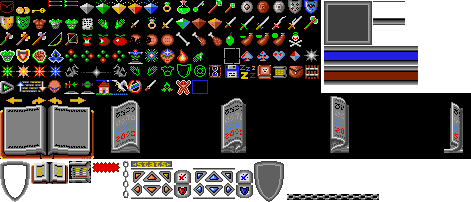
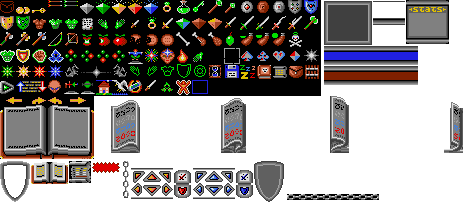
UI Constants

Changed region(s): [[0.1783, 0.4455, 1.0, 0.8317], [0.862, 0.0, 0.9512, 0.2376]]

diff --git a/variables.js b/variables.js
@@ -422,3 +422,135 @@ var SWITCH_FLOOR_NONE = 0,
 	SWITCH_FLOOR_TOGGLE_HOLE = 56, // (X/Y) *
 	SWITCH_FLOOR_GAME_COMPLETION_PAD = 58, // **
 	SWITCH_FLOOR_REMOVE_PILLAR_OTHER_EVENT = 60; // (X/Y) **
+        
+var UI_POCKET_EMPTY = 0,
+        UI_POCKET_COIN = 1,
+        UI_POCKET_COMMON_KEY = 2,
+        UI_POCKET_ARROW = 3,
+        UI_POCKET_ELF_ARROW = 4,
+        UI_POCKET_GEM_GREY = 5,
+        UI_POCKET_GEM_SERPENT = 6,
+        UI_POCKET_GEM_CHAOS = 7,
+        UI_POCKET_GEM_DRAGON =8,
+        UI_POCKET_GEM_MOON = 9,
+        UI_POCKET_RING = 10,
+        UI_POCKET_POTION = 11,
+        UI_POCKET_KEY = 12,
+        UI_POCKET_STAFF = 13,
+        UI_POCKET_WAND = 14,
+        UI_POCKET_SHIELD_1 = 15,
+        UI_POCKET_SHIELD_2 = 16,
+        UI_POCKET_SHIELD_3 = 17,
+        UI_POCKET_SHIELD_4 = 18,
+        UI_POCKET_SHIELD_5 = 19,
+        UI_POCKET_SHIELD_6 = 20,
+        UI_POCKET_SHIELD_7 = 21,
+        UI_POCKET_AMOUR_LEATHER = 22,
+        UI_POCKET_AMOUR_CHAIN = 23,
+        UI_POCKET_AMOUR_PLATE = 24,
+        UI_POCKET_PERMIT = 25,
+        UI_POCKET_HAND_LEFT_AMOUR = 26,
+        UI_POCKET_HAND_RIGHT_AMOUR = 27,
+        UI_POCKET_DAGGER = 28,
+        UI_POCKET_RING_SHINNY = 29,
+        UI_POCKET_SHORT_SWORD = 30,
+        UI_POCKET_GEM_GREENISH = 31,
+        UI_POCKET_GEM_BROWN = 32,
+        UI_POCKET_GEM_TAN = 33,
+        UI_POCKET_SWORD_1 = 34,
+        UI_POCKET_SWORD_2 = 35,
+        UI_POCKET_SWORD_3 = 36,
+        UI_POCKET_SWORD_4 = 37,
+        UI_POCKET_SWORD_5 = 38,
+        UI_POCKET_AXE_1 = 39,
+        UI_POCKET_AXE_2 = 40,
+        UI_POCKET_AXE_3 = 41,
+        UI_POCKET_AXE_4 = 42,
+        UI_POCKET_BOW = 43,
+        UI_POCKET_CROSS_BOW = 44,
+        UI_POCKET_APPLE_1 = 46,
+        UI_POCKET_APPLE_2 = 47,
+        UI_POCKET_APPLE_3 = 48,
+        UI_POCKET_BISCUIT_1 = 49,
+        UI_POCKET_BISCUIT_2 = 50,
+        UI_POCKET_BISCUIT_3 = 51,
+        UI_POCKET_CHICKEN_1 = 52,
+        UI_POCKET_CHICKEN_2 = 53,
+        UI_POCKET_CHICKEN_3 = 54,
+        UI_POCKET_NEGG = 55,
+        UI_POCKET_WATER_1 = 56,
+        UI_POCKET_WATER_2 = 57,
+        UI_POCKET_WATER_3 = 58,
+        UI_POCKET_BONES = 59,
+        UI_ICON_SPELL_1 = 60,
+        UI_ICON_SPELL_2 = 61,
+        UI_ICON_SPELL_3 = 62,
+        UI_ICON_SPELL_4 = 63,
+        UI_ICON_SPELL_COMPASS_NORTH = 64,
+        UI_ICON_SPELL_COMPASS_EAST = 65,
+        UI_ICON_SPELL_COMPASS_SOUTH = 66,
+        UI_ICON_SPELL_COMPASS_WEST = 67,
+        UI_ICON_SPELL_LEVITATE = 68,
+        UI_ICON_SPELL_5 = 69,
+        UI_ICON_SPELL_6 = 70,
+        UI_ICON_SPELL_7 = 71,
+        UI_POCKET_GLOVE = 72,
+        UI_POCKET_EMPTY = 73,
+        UI_POCKET_SLECTION = 74,
+        UI_POCKET_CLUB = 75,
+        UI_POCKET_SPADE = 76,
+        UI_POCKET_HEART = 77,
+        UI_POCKET_DIMOND = 78,
+        UI_ICON_SPELL_GREY = 79,
+        UI_ICON_SPELL_SERPENT = 80,
+        UI_ICON_SPELL_CHAOS = 81,
+        UI_ICON_SPELL_DRAGON = 82,
+        UI_ICON_SPELL_MOON = 83,
+        UI_ICON_SPELL_BOOK_DRAGON_LEFT = 84,
+        UI_ICON_SPELL_BOOK_LEFT = 85,
+        UI_ICON_SPELL_BOOK_RIGHT = 86,
+        UI_ICON_SPELL_BOOK_DRAGON_RIGHT = 87,
+        UI_POCKET_EMPTY_LEFT_HAND = 88,
+        UI_POCKET_EMPTY_RIGHT_HAND = 89,
+        UI_POCKET_EMPTY_AMOUR = 90,
+        UI_POCKET_EMPTY_LARGE_SHIELD = 91,
+        UI_POCKET_EMPTY_SMALL_SHEILD = 92,
+        UI_ICON_PAUSE = 93,
+        UI_ICON_SAVE = 94,
+        UI_ICON_SLEEP = 95,
+        UI_ICON_BOOKOFSKULLS = 96,
+        UI_ICON_UNKNOWN = 97,
+        UI_ICON_POCKETS = 98,
+        UI_ICON_OPENDOOR = 99,
+        UI_ICON_BACK = 100,
+        UI_ICON_SCROLL_UP = 101,
+        UI_ICON_SCROLL_DOWN = 102,
+        UI_ICON_SPELL_8 = 103,
+        UI_ICON_SPELL_9 = 104,
+        UI_ICON_SPELL_10 = 105,
+        UI_ICON_SPELL_11 = 106,
+        UI_ICON_SPELL_12 = 107,
+        UI_ICON_SPELL_13 = 108,
+        UI_ICON_SPELL_14 = 109,
+        UI_ICON_SPELL_15 = 110,
+        UI_ICON_SPELL_16 = 111,
+        UI_ICON_SELECTED = 112,
+        UI_SPELLBOOK = 113,
+        UI_SPELLBOOK_TURNPAGE_1 = 114,
+        UI_SPELLBOOK_TURNPAGE_2 = 115,
+        UI_SPELLBOOK_TURNPAGE_3 = 116,
+        UI_SPELLBOOK_TURNPAGE_4 = 117,
+        UI_SHIELD = 118,
+        UI_ICON_SPELLBOOK = 119,
+        UI_ICON_SCROLL = 120,
+        UI_ICON_ATTACK = 121,
+        UI_CHAIN_VERT = 122,
+        UI_STATSBOX = 123,
+        UI_ICON_ARROWS_RED = 124,
+        UI_ICON_ARROWS_BLUE = 125,
+        UI_SHIELD_FILLED = 126,
+        UI_CHAIN_LONG = 127,
+        UI_CHARACTER_BOX = 128,
+        UI_POCKETBOX = 129,
+        UI_NAME_BLUE = 130,
+        UI_NAME_RED = 131;

diff --git a/testing.js b/testing.js
@@ -64,51 +64,52 @@ function testSummon(){
     try{
     if (gfxUI !== null || typeof(gfxUI)!=='undefined') {
         
-        var testGfx = gfxUI;
+        var testGfx = gfxUI,
+                testVar = UI_NAME_RED ;
         
-        ctx.drawImage(testGfx[testMon1],145*scale,25*scale,testGfx[testMon1].width*scale,testGfx[testMon1].height*scale);
+        ctx.drawImage(testGfx[testVar],145*scale,25*scale,testGfx[testVar].width*scale,testGfx[testVar].height*scale);
         
         }
     }catch(e){}
     
 }
 
-function grabUISprites(spriteSheetIMG){
-    
-    var ImageArray = [];
-    
-    //Grab the ICONS
-    for (y=0;y<6;y++){
-        for (x=0;x<20;x++){
-         ImageArray.push(grabImageAt(spriteSheetIMG,x*16,y*16,16,16,false));
-        }
-    }
-    
-    //Grab the SpellBook
-    //var SpellBookAnim = [];
-    for (x=0;x<5;x++){
-        ImageArray.push(grabImageAt(spriteSheetIMG,x*94,97,94,62,false));        
-    }
-    
-    //ImageArray.push(SpellBookAnim);
-    
-    //Grab the rest of the UI
-    ImageArray.push(grabImageAt(spriteSheetIMG,0,161,30,41,false));  //Shield  
-    ImageArray.push(grabImageAt(spriteSheetIMG,31,162,37,22,false)); //SpellBook Icon
-    ImageArray.push(grabImageAt(spriteSheetIMG,69,161,22,22,false)); //Scroll
-    ImageArray.push(grabImageAt(spriteSheetIMG,92,162,28,11,false)); //Attack
-    ImageArray.push(grabImageAt(spriteSheetIMG,123,161,6,37,false)); //Chain
-    ImageArray.push(grabImageAt(spriteSheetIMG,131,161,41,6,false)); //Stats
-    ImageArray.push(grabImageAt(spriteSheetIMG,131,168,60,31,false));//Red Actions
-    ImageArray.push(grabImageAt(spriteSheetIMG,193,168,60,31,false));//Blue Actions
-    
-    ImageArray.push(grabImageAt(spriteSheetIMG,254,161,30,41,false));//Filled Shield
-    ImageArray.push(grabImageAt(spriteSheetIMG,287,194,92,6,false));//Long Chain
-    ImageArray.push(grabImageAt(spriteSheetIMG,324,1,48,44,false));//Character Box
-    ImageArray.push(grabImageAt(spriteSheetIMG,373,1,32,24,false));//Pocket Box
-    ImageArray.push(grabImageAt(spriteSheetIMG,324,46,94,19,false));//Blue Name Box
-    ImageArray.push(grabImageAt(spriteSheetIMG,324,66,94,19,false));//Red Name Box
-    
-    return ImageArray;
-    
-}
+//function grabUISprites(spriteSheetIMG){
+//    
+//    var ImageArray = [];
+//    
+//    //Grab the ICONS
+//    for (y=0;y<6;y++){
+//        for (x=0;x<20;x++){
+//         ImageArray.push(grabImageAt(spriteSheetIMG,x*16,y*16,16,16,false));
+//        }
+//    }
+//    
+//    //Grab the SpellBook
+//    //var SpellBookAnim = [];
+//    for (x=0;x<5;x++){
+//        ImageArray.push(grabImageAt(spriteSheetIMG,x*94,97,94,62,false));        
+//    }
+//    
+//    //ImageArray.push(SpellBookAnim);
+//    
+//    //Grab the rest of the UI
+//    ImageArray.push(grabImageAt(spriteSheetIMG,0,161,30,41,false));  //Shield  
+//    ImageArray.push(grabImageAt(spriteSheetIMG,31,162,37,22,false)); //SpellBook Icon
+//    ImageArray.push(grabImageAt(spriteSheetIMG,69,161,22,22,false)); //Scroll
+//    ImageArray.push(grabImageAt(spriteSheetIMG,92,162,28,11,false)); //Attack
+//    ImageArray.push(grabImageAt(spriteSheetIMG,123,161,6,37,false)); //Chain
+//    ImageArray.push(grabImageAt(spriteSheetIMG,131,161,41,6,false)); //Stats
+//    ImageArray.push(grabImageAt(spriteSheetIMG,131,168,60,31,false));//Red Actions
+//    ImageArray.push(grabImageAt(spriteSheetIMG,193,168,60,31,false));//Blue Actions
+//    
+//    ImageArray.push(grabImageAt(spriteSheetIMG,254,161,30,41,false));//Filled Shield
+//    ImageArray.push(grabImageAt(spriteSheetIMG,287,194,92,6,false));//Long Chain
+//    ImageArray.push(grabImageAt(spriteSheetIMG,324,1,48,44,false));//Character Box
+//    ImageArray.push(grabImageAt(spriteSheetIMG,373,1,32,24,false));//Pocket Box
+//    ImageArray.push(grabImageAt(spriteSheetIMG,324,46,94,19,false));//Blue Name Box
+//    ImageArray.push(grabImageAt(spriteSheetIMG,324,66,94,19,false));//Red Name Box
+//    
+//    return ImageArray;
+//    
+//}

diff --git a/graphicsInterface.js b/graphicsInterface.js
@@ -1,0 +1,55 @@
+function grabUISprites(spriteSheetIMG){
+    
+    var ImageArray = [];
+    
+    //Grab the ICONS
+    for (y=0;y<6;y++){
+        for (x=0;x<20;x++){
+         ImageArray.push(grabImageAt(spriteSheetIMG,x*16,y*16,16,16,false));
+        }
+    }
+    
+    //Remove the blank images
+    for (x=0;x<7;x++){
+        ImageArray.pop();
+    }
+    
+    //Grab the SpellBook
+    //var SpellBookAnim = [];
+    for (x=0;x<5;x++){
+        ImageArray.push(grabImageAt(spriteSheetIMG,x*94,97,94,62,false));        
+    }
+    
+    //ImageArray.push(SpellBookAnim);
+    
+    //Grab the rest of the UI
+    ImageArray.push(grabImageAt(spriteSheetIMG,0,161,30,41,false));  //Shield  
+    ImageArray.push(grabImageAt(spriteSheetIMG,31,162,37,22,false)); //SpellBook Icon
+    ImageArray.push(grabImageAt(spriteSheetIMG,69,161,22,22,false)); //Scroll
+    ImageArray.push(grabImageAt(spriteSheetIMG,92,162,28,11,false)); //Attack
+    ImageArray.push(grabImageAt(spriteSheetIMG,123,161,6,37,false)); //Chain
+    ImageArray.push(grabImageAt(spriteSheetIMG,131,161,41,6,false)); //Stats
+    ImageArray.push(grabImageAt(spriteSheetIMG,131,168,60,31,false));//Red Actions
+    ImageArray.push(grabImageAt(spriteSheetIMG,193,168,60,31,false));//Blue Actions
+    
+    ImageArray.push(grabImageAt(spriteSheetIMG,254,161,30,41,false));//Filled Shield
+    ImageArray.push(grabImageAt(spriteSheetIMG,287,194,92,6,false));//Long Chain
+    ImageArray.push(grabImageAt(spriteSheetIMG,324,1,48,44,false));//Character Box
+    ImageArray.push(grabImageAt(spriteSheetIMG,373,1,32,24,false));//Pocket Box
+    ImageArray.push(grabImageAt(spriteSheetIMG,324,46,94,19,false));//Blue Name Box
+    ImageArray.push(grabImageAt(spriteSheetIMG,324,66,94,19,false));//Red Name Box
+    
+    return ImageArray;
+    
+}
+
+function drawUI(p) {
+    
+    
+    
+}
+
+function drawPocketUI(p) {
+    
+    
+}

diff --git a/player.js b/player.js
@@ -1,9 +1,7 @@
-function Player(id, PortX, PortY) {
+function Player(id, PortX, PortY,ScreenX,ScreenY) {
 	this.id = id;
 	this.champion = new Array();
-	//for (i = 0; i < 4; i++) {
-	//	this.champion[i] = -1;
-	//}
+        this.currentChamp = this.champion[0]; // <--- TEMP NEED TO SELECT CORRECT CHAMP
 	this.x = 0; //posX;
 	this.y = 0; //posY;
 	this.floor = 0; //floor;
@@ -11,17 +9,17 @@ function Player(id, PortX, PortY) {
 	this.PortalX = PortX;
 	this.PortalY = PortY;
 	this.Portal = null;
-	//this.View = [];
+        this.ScreenX = ScreenX;
+        this.ScreenY = ScreenY;
+        this.Action = null;
+        this.Hand = null;
 	this.lastX = 0;
 	this.lastY = 0;
 	this.lastFloor = 0;
 	this.lastTower = towerThis;
 	this.moving = 0; //0 = Forward,1 = Right, 2 = Backwards, 3 = Left
 	this.towerSwitches = new Array();
-
-	//this.setBinaryView(18, 8, 1, '1');
-
-	//players++;
+        
 }
 
 Player.prototype.getViewPortal = function() {

diff --git a/init.js b/init.js
@@ -140,8 +140,8 @@ function initData() {
 	grabFont();
 	initChampions();
 	initSpells();
-	player[0] = new Player(0, (canvas.width - (128 * scale)) / 2, 12 * scale);
-	player[1] = new Player(1, (canvas.width - (128 * scale)) / 2, 116 * scale);
+	player[0] = new Player(0, (canvas.width - (128 * scale)) / 2, 12 * scale,0,10);
+	player[1] = new Player(1, (canvas.width - (128 * scale)) / 2, 116 * scale,0,114);
 	initPlayersQuickStart();
 	initTowerSwitches();
 	switchTower(0);

diff --git a/Bloodwych.js b/Bloodwych.js
@@ -32,8 +32,10 @@ function updatePlayerViewScreen() {
 		debugText(player[p], "Player " + (p + 1));
 		debugText(player[p], "T:" + TOWER_NAME[towerThis] + "  F:" + player[p].floor + "  X:" + player[p].x + "  Y:" + player[p].y + "  D:" + player[p].d);
 		drawPlayersView(player[p]);
+                drawUI(player[p]);
         }
         testing();
+        
 	//writeFontImage("Testing: ,!) 123", 0, 320, COLOUR[COLOUR_GREEN]);
 }
 

diff --git a/Bloodwych.html b/Bloodwych.html
@@ -33,7 +33,8 @@
 		</div>
 	</div>
 
-    <script src="font.js" type="text/javascript"></script>
+        <script src="font.js" type="text/javascript"></script>
+        <script src="graphicsInterface.js" type="text/javascript"></script>
 	<script src="variables.js" type="text/javascript"></script>
 	<script src="testing.js" type="text/javascript"></script>
 	<script src="rpg.js" type="text/javascript"></script>
